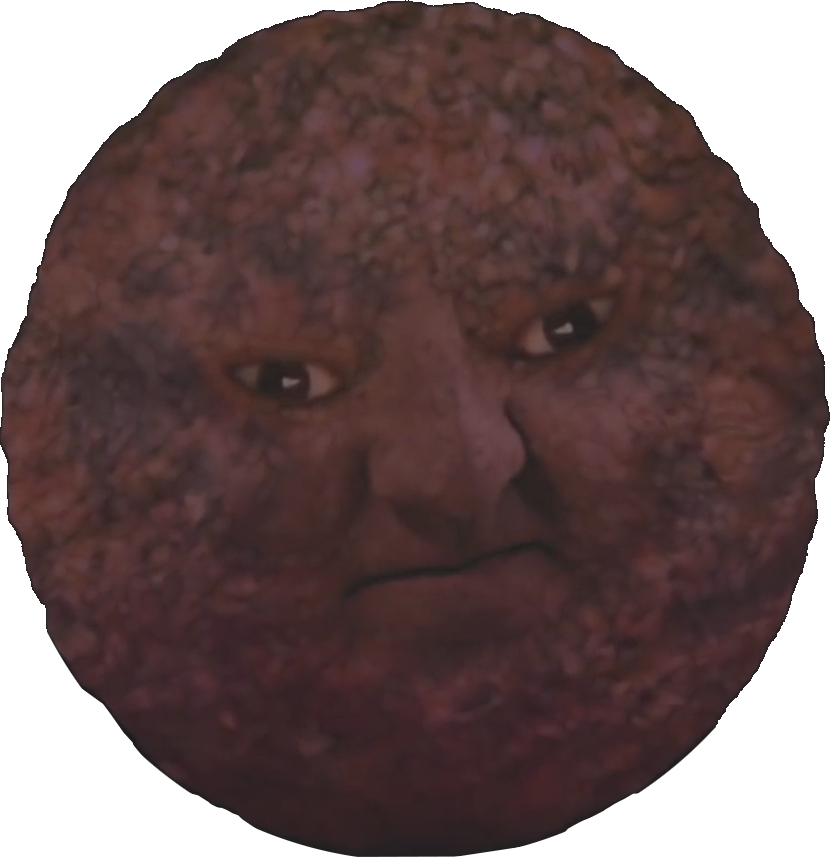
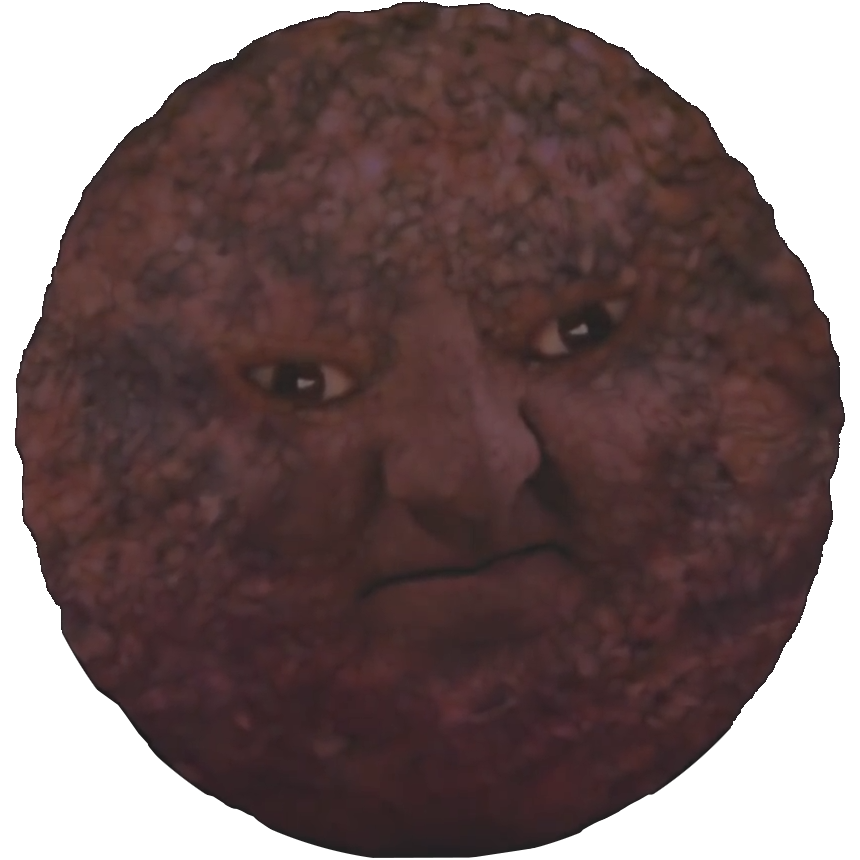
It's rotating...

diff --git a/src/main.js b/src/main.js
@@ -1,11 +1,14 @@
 // "use strict";
 
-var GROW_DELAY_MS = 50;
 var GROWTH = 2;
 var DEFAULT_WIDTH_UNIT = "px";
+var GROWTH_DELAY_MS = 50;
+var BOB_DELAY_MS = 50;
+var BOB_STRENGTH = 2;
 
 var meatballMan;
-var meatballManGrowInterval;
+var growthInterval;
+var bobInterval;
 
 function itsComingCloser() {
     var currentWidth;
@@ -13,7 +16,7 @@ function itsComingCloser() {
 
     var widthMatch = meatballMan.style.width.match(/^(\d+)(.+)$/);
 
-    if (widthMatch) {
+    if (widthMatch && widthMatch[1] && widthMatch[2]) {
         currentWidth = Number(widthMatch[1]);
         widthUnit = widthMatch[2];
     } else {
@@ -26,10 +29,30 @@ function itsComingCloser() {
     }
 }
 
+function itsBobbing() {
+    var halfBobStrength = BOB_STRENGTH * 0.5;
+    var currentRotation;
+
+    var rotationMatch = meatballMan.style.transform.match(/^rotate\((\d+)deg\)$/);
+
+    if (rotationMatch && rotationMatch[1]) {
+        currentRotation = Number(rotationMatch[1]);
+    } else {
+        currentRotation = 0;
+    }
+
+    var rotRand = Math.random() * BOB_STRENGTH - currentRotation;
+    var rotMult = rotRand >= halfBobStrength ? 1.0 : -1.0;
+    meatballMan.style.transform = "rotate("
+        + String(currentRotation + BOB_STRENGTH * rotMult)
+        + "deg)";
+}
+
 function main() {
     meatballMan = document.getElementById("man");
     if (meatballMan) {
-        meatballManGrowInterval = setInterval(itsComingCloser, GROW_DELAY_MS);
+        growthInterval = setInterval(itsComingCloser, GROWTH_DELAY_MS);
+        bobInterval = setInterval(itsBobbing, BOB_DELAY_MS);
     }
 }
 

diff --git a/index.html b/index.html
@@ -17,7 +17,7 @@
                     id="man"
                     src="./public/man.png"
                     alt="The Meatball Man, in all of its glory..."
-                    style="width: 0;">
+                    style="width: 0; transform: rotate(0deg)">
             </div>
         </div>
 
